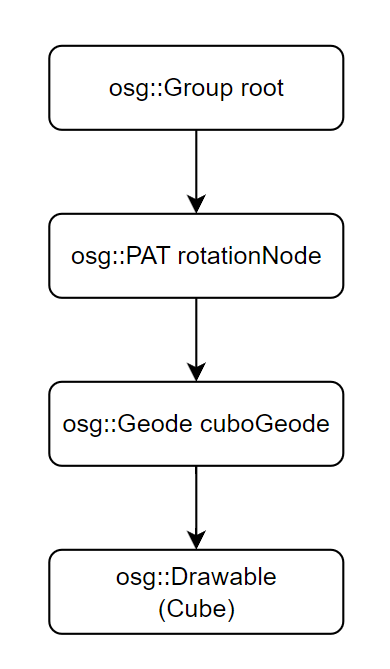
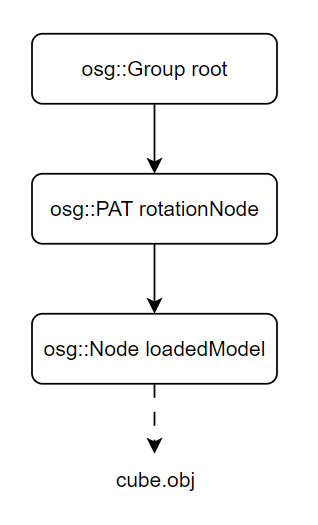
Changed cube model

Changed region(s): [[0.0849, 0.061, 0.9057, 0.9752], [0.1132, 0.8229, 0.1415, 0.9448]]

diff --git a/spinningcube.cpp b/spinningcube.cpp
@@ -1,3 +1,5 @@
+#include <iostream>
+#include <osgDB/ReadFile>
 #include <osg/ShapeDrawable>
 #include <osg/Geode>
 #include <osg/Group>
@@ -12,103 +14,61 @@
 
 // Función para crear una ruta de animación de rotación
 osg::ref_ptr<osg::AnimationPath> createRotationPath() {
-    osg::ref_ptr<osg::AnimationPath> animationPath = new osg::AnimationPath();
-    animationPath->setLoopMode(osg::AnimationPath::LOOP);
+  osg::ref_ptr<osg::AnimationPath> animationPath = new osg::AnimationPath();
+  animationPath->setLoopMode(osg::AnimationPath::LOOP);
 
-    const double degreesPerSecond = 40.0; // Grados por segundo
-    const double sampleInterval = 1.0; // Intervalo de muestreo en segundos
-    const unsigned int numSamples = 40;   // Número de muestras de la animación
+  const double degreesPerSecond = 40.0; // Grados por segundo
+  const double sampleInterval = 1.0; // Intervalo de muestreo en segundos
+  const unsigned int numSamples = 40;   // Número de muestras de la animación
 
-    for (unsigned int i = 0; i <= numSamples; ++i) {
-        double time = i * sampleInterval;
-        double angle = osg::DegreesToRadians(degreesPerSecond * time);
+  for (unsigned int i = 0; i <= numSamples; ++i) {
+      double time = i * sampleInterval;
+      double angle = osg::DegreesToRadians(degreesPerSecond * time);
 
-        osg::Quat rotation(angle, osg::Vec3(0.0, 1.0, 1.0));
-        animationPath->insert(time, osg::AnimationPath::ControlPoint(osg::Vec3(), rotation));
-    }
+      osg::Quat rotation(angle, osg::Vec3(0.0, 1.0, 1.0));
+      animationPath->insert(time, osg::AnimationPath::ControlPoint(osg::Vec3(), rotation));
+  }
 
-    return animationPath;
+  return animationPath;
 }
 
-osg::ref_ptr<osg::Geode> createColoredCube() {
-    osg::ref_ptr<osg::Geode> geode = new osg::Geode();
-    osg::ref_ptr<osg::Geometry> geometry = new osg::Geometry();
+int main(int argc, char* argv[]) {
+  
+  // Comprobar parámetros de línea de comandos
+  if (argc != 2) {
+    std::cerr << "Usage: " << argv[0] << " <model file>\n";
+    exit(1);
+  }
 
-    osg::ref_ptr<osg::Vec3Array> vertices = new osg::Vec3Array();
-    osg::ref_ptr<osg::Vec4Array> colors = new osg::Vec4Array();
-    osg::ref_ptr<osg::DrawElementsUInt> indices = new osg::DrawElementsUInt(GL_QUADS);
+  // Cargar el modelo
+  osg::ref_ptr<osg::Node> loadedModel = osgDB::readNodeFile(argv[1]);
+  if (!loadedModel) {
+    std::cerr << "Problem opening '" << argv[1] << "'\n";
+    exit(1);
+  }
 
-    // Definir los vértices del cubo
-    vertices->push_back(osg::Vec3(-0.5f, -0.5f, -0.5f));
-    vertices->push_back(osg::Vec3(0.5f, -0.5f, -0.5f));
-    vertices->push_back(osg::Vec3(0.5f, 0.5f, -0.5f));
-    vertices->push_back(osg::Vec3(-0.5f, 0.5f, -0.5f));
-    vertices->push_back(osg::Vec3(-0.5f, -0.5f, 0.5f));
-    vertices->push_back(osg::Vec3(0.5f, -0.5f, 0.5f));
-    vertices->push_back(osg::Vec3(0.5f, 0.5f, 0.5f));
-    vertices->push_back(osg::Vec3(-0.5f, 0.5f, 0.5f));
+  // Crear el nodo raíz
+  osg::ref_ptr<osg::Group> root(new osg::Group());
 
-    // Definir los colores para cada vértice
-    colors->push_back(osg::Vec4(1.0f, 0.0f, 0.0f, 1.0f)); // Rojo
-    colors->push_back(osg::Vec4(0.0f, 1.0f, 0.0f, 1.0f)); // Verde
-    colors->push_back(osg::Vec4(0.0f, 0.0f, 1.0f, 1.0f)); // Azul
-    colors->push_back(osg::Vec4(1.0f, 1.0f, 0.0f, 1.0f)); // Amarillo
-    colors->push_back(osg::Vec4(1.0f, 0.0f, 1.0f, 1.0f)); // Magenta
-    colors->push_back(osg::Vec4(0.0f, 1.0f, 1.0f, 1.0f)); // Cian
-    colors->push_back(osg::Vec4(1.0f, 0.5f, 0.0f, 1.0f)); // Naranja
-    colors->push_back(osg::Vec4(0.5f, 0.0f, 0.5f, 1.0f)); // Púrpura
+  // Crear un nodo de transformación para la rotación del cubo
+  osg::ref_ptr<osg::PositionAttitudeTransform> rotationNode = new osg::PositionAttitudeTransform();
+  rotationNode->addChild(loadedModel);
+  // Crear la ruta de animación de rotación y agregarla al nodo de rotación
+  osg::ref_ptr<osg::AnimationPathCallback> rotationCallback = new osg::AnimationPathCallback();
+  rotationCallback->setAnimationPath(createRotationPath());
+  rotationNode->setUpdateCallback(rotationCallback);
+      
+  // Agregar el nodo con el cubo al nodo raíz
+  root->addChild(rotationNode);
 
-    indices->push_back(4); indices->push_back(5); indices->push_back(6); indices->push_back(7);
-    indices->push_back(0); indices->push_back(1); indices->push_back(2); indices->push_back(3);
-    indices->push_back(0); indices->push_back(4); indices->push_back(7); indices->push_back(3);
-    indices->push_back(1); indices->push_back(5); indices->push_back(6); indices->push_back(2);
-    indices->push_back(3); indices->push_back(2); indices->push_back(6); indices->push_back(7);
-    indices->push_back(0); indices->push_back(1); indices->push_back(5); indices->push_back(4);
+  // Crear un visor y establecer la escena
+  osgViewer::Viewer viewer;
+  viewer.setSceneData(root);
 
-    geometry->setVertexArray(vertices);
-    geometry->setColorArray(colors, osg::Array::BIND_PER_VERTEX);
-    geometry->addPrimitiveSet(indices);
+  // Configurar el manipulador de cámara para permitir la interacción con el ratón
+  osg::ref_ptr<osgGA::TrackballManipulator> manipulator = new osgGA::TrackballManipulator();
+  viewer.setCameraManipulator(new osgGA::TrackballManipulator);
 
-    geode->addDrawable(geometry);
-    return geode;
-}
-
-
-int main(int argc, char** argv) {
-    // Crear el Geode del cubo coloreado
-    osg::ref_ptr<osg::Geode> cuboGeode = createColoredCube();
-
-    // Crear un nodo de transformación para la rotación del cubo
-    osg::ref_ptr<osg::PositionAttitudeTransform> rotationNode = new osg::PositionAttitudeTransform();
-    rotationNode->addChild(cuboGeode);
-    // Crear la ruta de animación de rotación y agregarla al nodo de rotación
-    osg::ref_ptr<osg::AnimationPathCallback> rotationCallback = new osg::AnimationPathCallback();
-    rotationCallback->setAnimationPath(createRotationPath());
-    rotationNode->setUpdateCallback(rotationCallback);
-
-    //Crear pat para el primer cubo
-    osg::ref_ptr<osg::PositionAttitudeTransform> cube1 = new osg::PositionAttitudeTransform();
-    cube1->addChild(rotationNode);
-    cube1->setPosition(osg::Vec3(-2.0, 0.0, 0.0));
-
-    //Crear para para el segundo cubo
-    osg::ref_ptr<osg::PositionAttitudeTransform> cube2 = new osg::PositionAttitudeTransform();
-    cube2->addChild(rotationNode);
-    cube2->setPosition(osg::Vec3(2.0, 0.0, 0.0));
-        
-    // Crear un nodo raíz y agregar los nodos con los cubos a él
-    osg::ref_ptr<osg::Group> root = new osg::Group();
-    root->addChild(cube1);
-    root->addChild(cube2);
-
-    // Crear un visor y establecer la escena
-    osgViewer::Viewer viewer;
-    viewer.setSceneData(root);
-
-    // Configurar el manipulador de cámara para permitir la interacción con el ratón
-    osg::ref_ptr<osgGA::TrackballManipulator> manipulator = new osgGA::TrackballManipulator();
-    viewer.setCameraManipulator(new osgGA::TrackballManipulator);
-
-    // Iniciar el bucle de visualización
-    return viewer.run();
+  // Iniciar el bucle de visualización
+  return viewer.run();
 }
